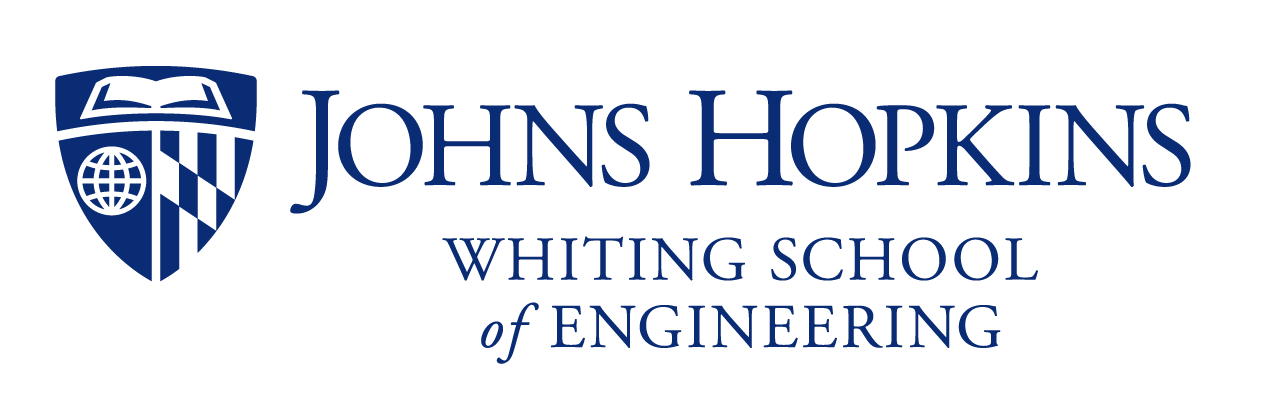
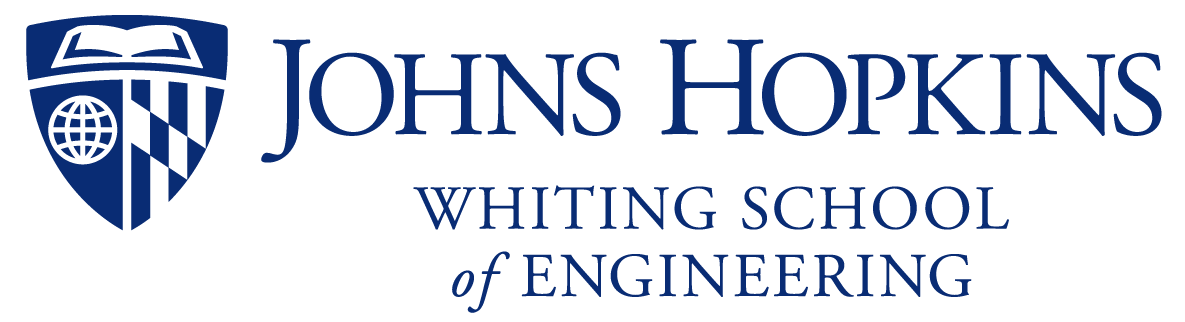
Update image

Changed region(s): [[0.0, 0.0311, 0.9992, 0.7143], [0.3435, 0.559, 0.8743, 0.9627]]

diff --git a/_layouts/default.html b/_layouts/default.html
@@ -88,8 +88,14 @@ layout: compress
                       </ul>
                     </div>
                   </div>
-                  <img id="logo_ccb" src="{{base_path}}/images/JHU_ccb.png">
-                  <img id="logo_wse" src="{{base_path}}/images/JHU_wse.png">
+                  <div class="row" style="display: flex; margin-top:10px;">
+                    <div class="column" style="flex: 50%; margin:10px">
+                      <img id="logo_ccb" src="{{base_path}}/images/JHU_ccb.png">
+                    </div>
+                    <div class="column" style="flex: 50%; margin:10px">
+                      <img id="logo_wse" src="{{base_path}}/images/JHU_wse.png">
+                    </div>
+                  </div>
                   <section id="section03" class="demo" style="height:300px;">
                     <a id="navigation_btn" style="pointer-events: all; z-index:100; top:50%; color: black" href=""><span></span>More Info</a>
                   </section>
@@ -100,7 +106,7 @@ layout: compress
 
       <script>
         var typed = new Typed("#typed", {
-          strings: ["research.", "bioinformatics.", "computer science.", "genome assembly.", "transcriptome (RNA-seq).", "genomics.", "algorithm."],
+          strings: ["research.", "bioinformatics.", "computer science.", "genome assembly.", "transcriptome(RNA-seq).", "genomics.", "algorithm."],
           typeSpeed: 100,
           backSpeed: 70,
           startDelay: 1000,
